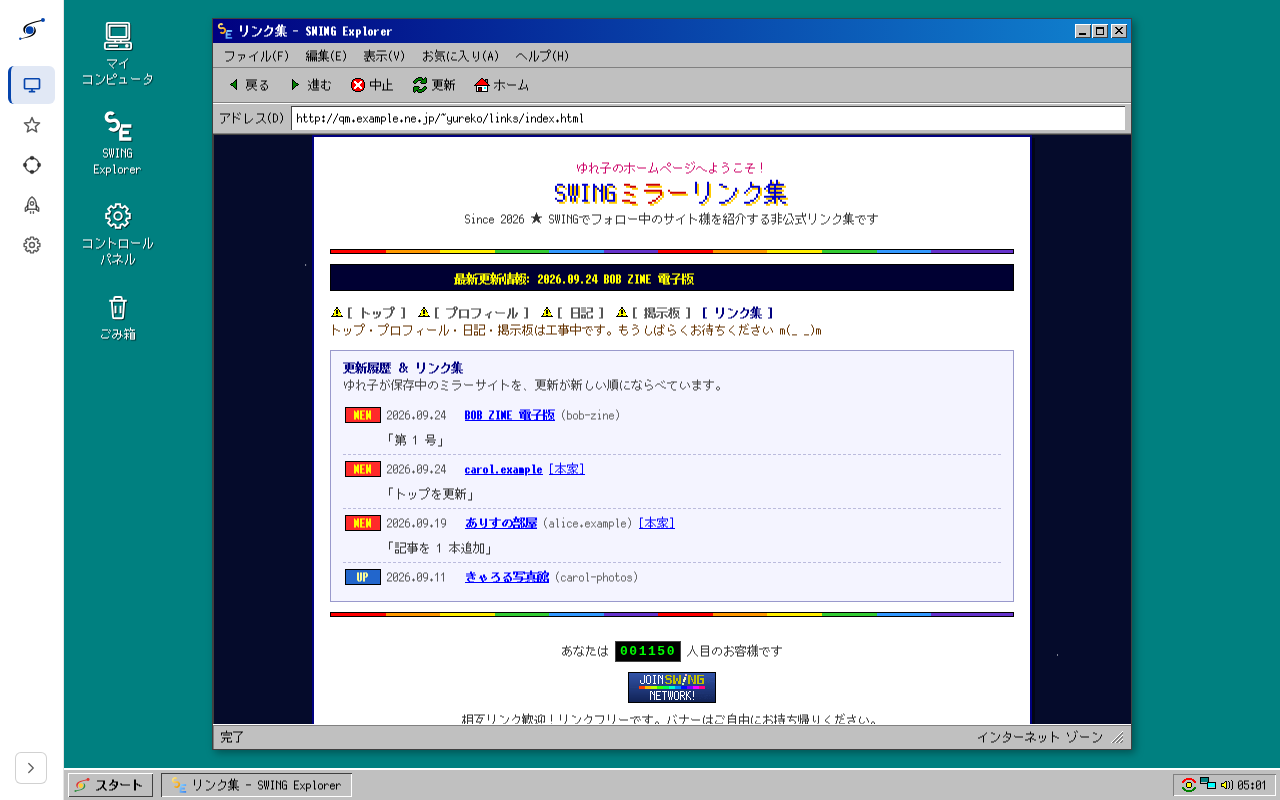
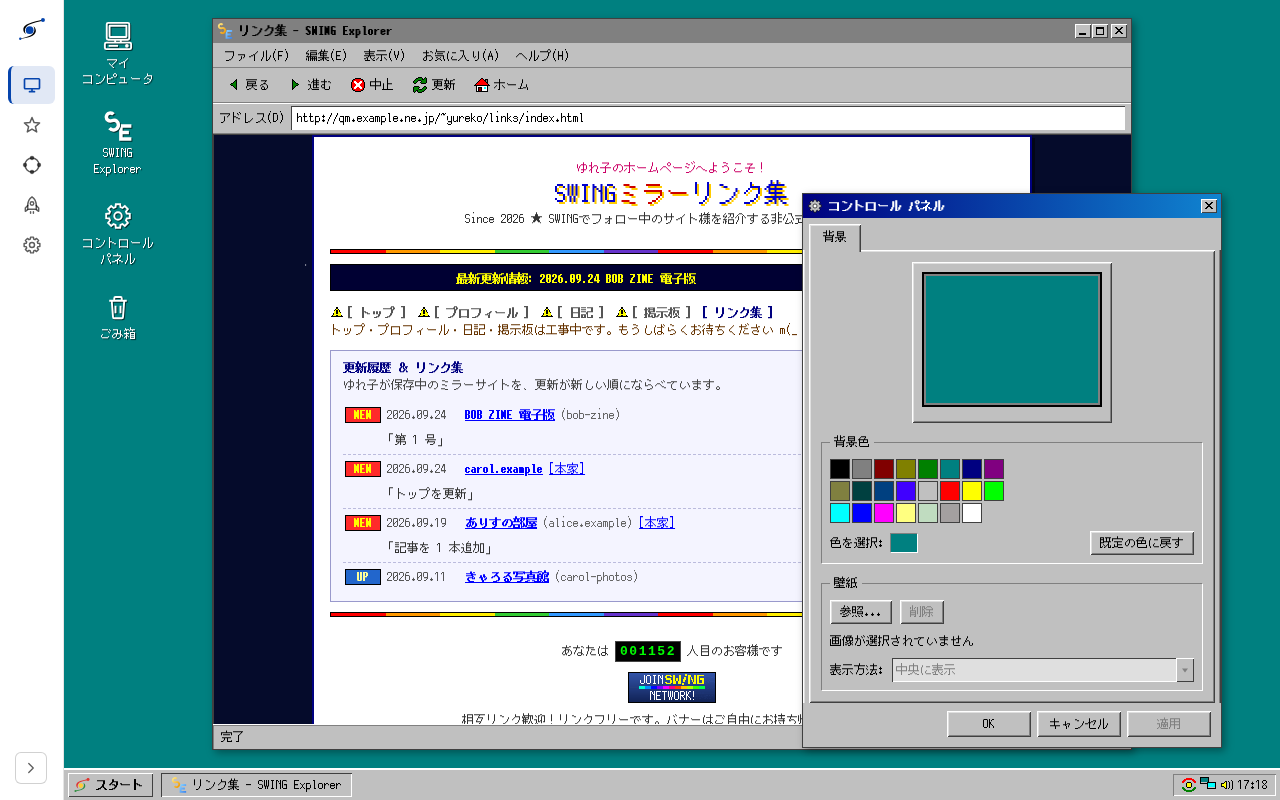
Keep the lockup's logotype circles antialiased and show the control panel in the README screenshot
Claude-Session: https://claude.ai/code/session_01EFuCqrhKFy5b5ScGEJ1XLX

diff --git a/docs/log/2026-09-25-readme-assets-refresh.md b/docs/log/2026-09-25-readme-assets-refresh.md
@@ -1,0 +1,13 @@
+# README の画像の手直し
+
+## ロックアップのロゴタイプの円がギザギザだった
+
+`docs/assets/swing-lockup.svg` と `swing-lockup-dark.svg` で、ロゴタイプ側の `<g>`（縞の `rect` と円の両方を含む）に `shape-rendering="crispEdges"` を付けていたため、円（「I」の点など）のアンチエイリアスまで切られて縁がギザギザになっていた。ロゴ側の円には付いていないので綺麗だった。
+
+ダッシュボードの `web/style.css` では `crispEdges` を縞のグループ `.swing-logotype-body` にだけ掛けていて、円は対象外。ロックアップも同じ形にそろえ、属性を縞の `rect` をまとめた内側の `<g>` へ移した。
+
+## スクリーンショットにコントロール パネルを入れた
+
+`docs/assets/dashboard-desktop.png` を、コントロール パネルのダイアログを開いた状態で撮り直した。ダイアログは既定だと画面中央に出てリンク集をほぼ隠すので、SWING Explorer ウィンドウの右下に重なる位置までドラッグし、リンク集の左半分（NEW バッジ・日付・サイト名）が見えるようにした。マーキーの文字が帯の中に入り、NEW バッジが点灯しているコマを選んだ。
+
+撮影条件はデモ環境の `#/desktop`、1280×800・等倍・サイドナビ collapsed・日本語・ライトテーマ。README の alt と AGENTS.md の撮影条件の記述も合わせて更新した。

diff --git a/README.md b/README.md
@@ -6,7 +6,7 @@
 </p>
 
 <p align="center">
-  <img src="docs/assets/dashboard-desktop.png" alt="ダッシュボードの Desktop 画面。Windows 風デスクトップの上のブラウザウィンドウに、保存中のサイトのリンク集が並んでいる" width="900">
+  <img src="docs/assets/dashboard-desktop.png" alt="ダッシュボードの Desktop 画面。Windows 風デスクトップの上のブラウザウィンドウに、保存中のサイトのリンク集が並び、右下にデスクトップの背景を設定するコントロール パネルのダイアログが開いている" width="900">
   <br>
   <sub>Desktop 画面（<a href="docker/demo/README.md">デモ環境</a>のサンプルデータ）</sub>
 </p>
